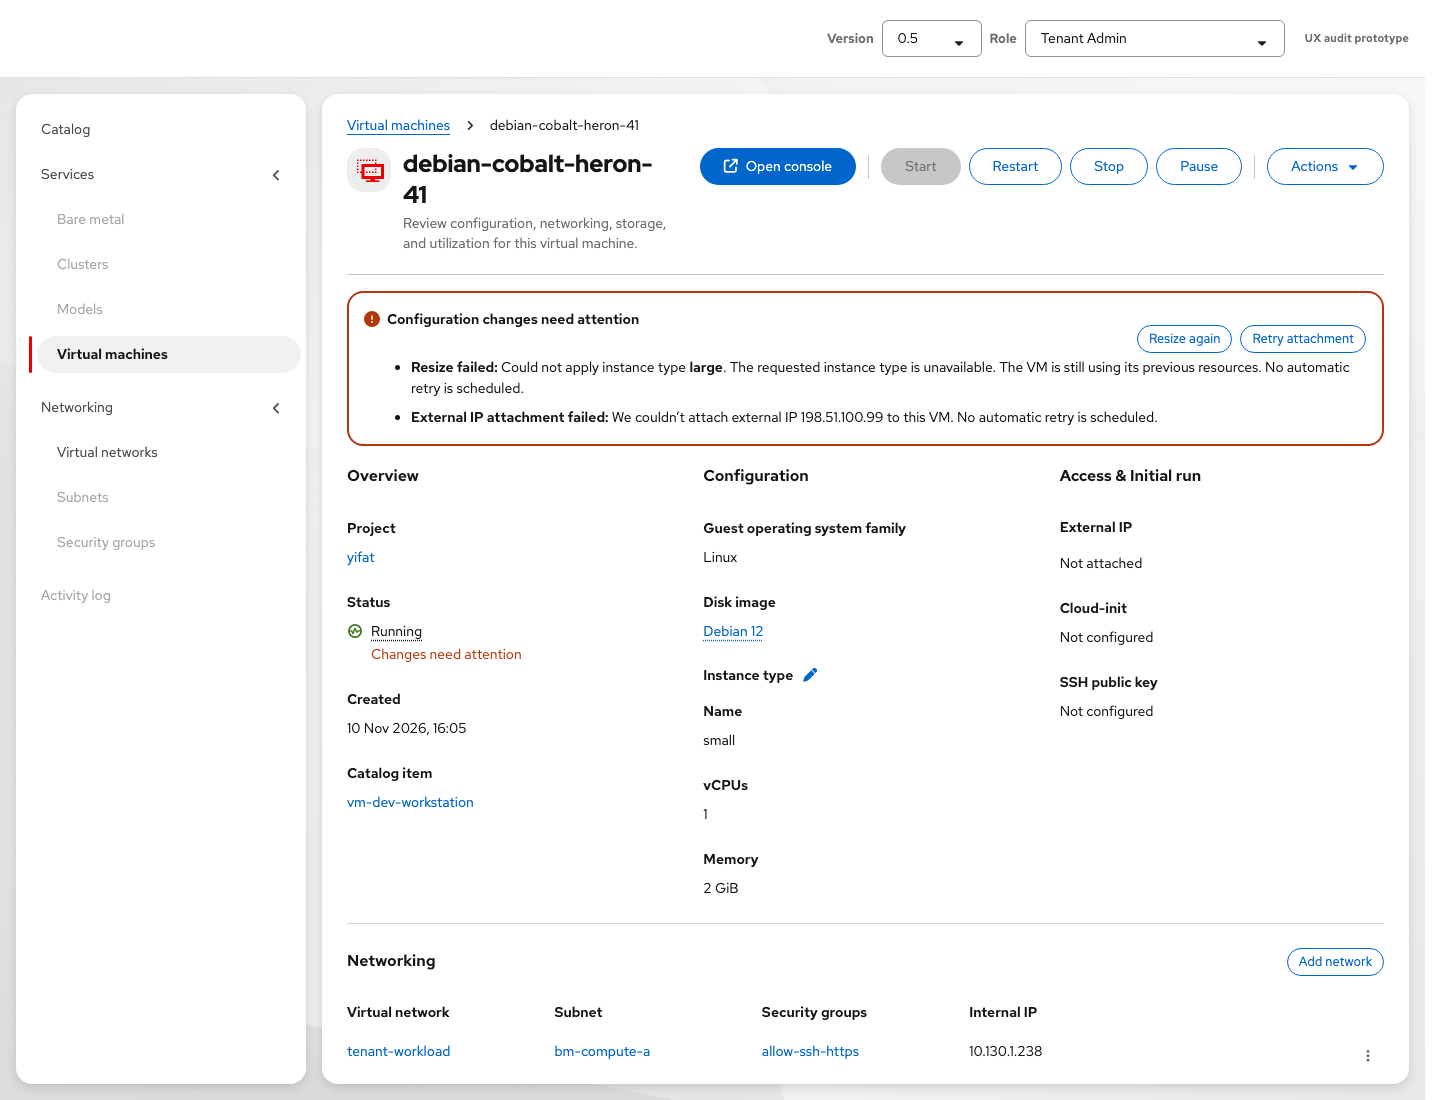
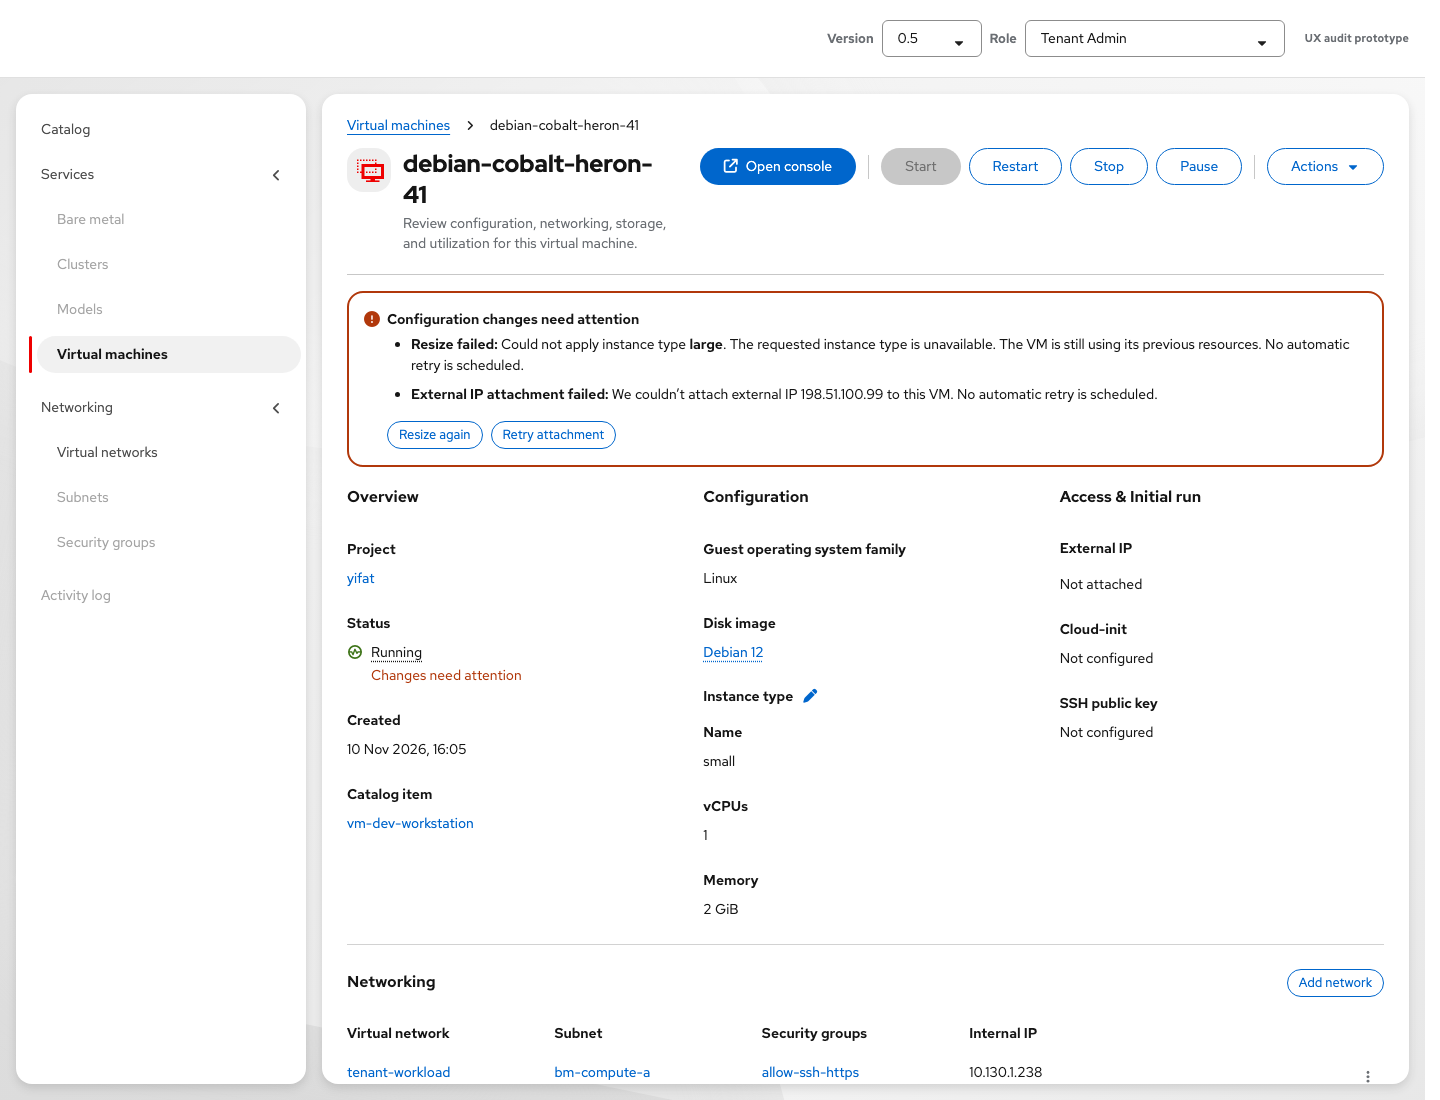
OSAC-7158 place alert actions below message

diff --git a/apps/app-frontend/public/vmaas-ux-prototype.html b/apps/app-frontend/public/vmaas-ux-prototype.html
@@ -1321,6 +1321,8 @@
       align-items: center;
       gap: 8px;
       width: 100%;
+      grid-column: 2 / -1;
+      grid-row: 3;
     }
     .vm-config-operation__retry {
       display: block;
